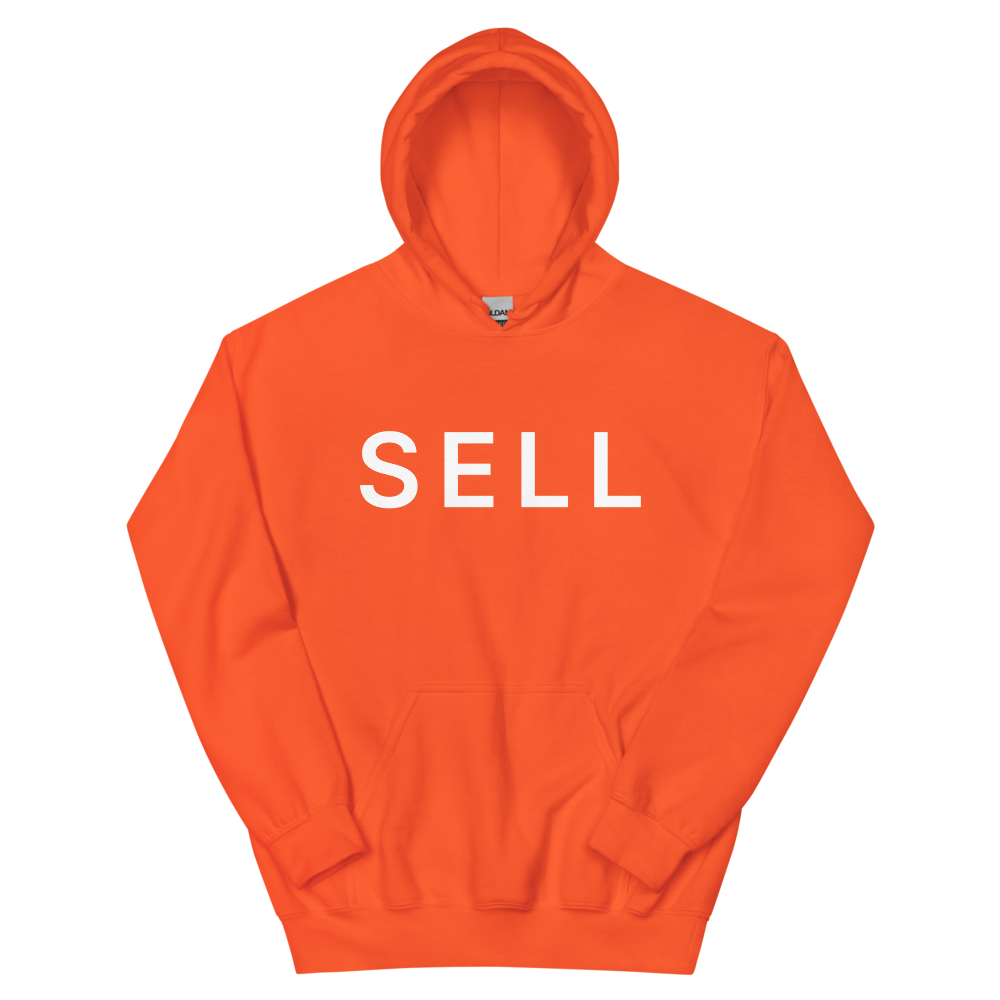
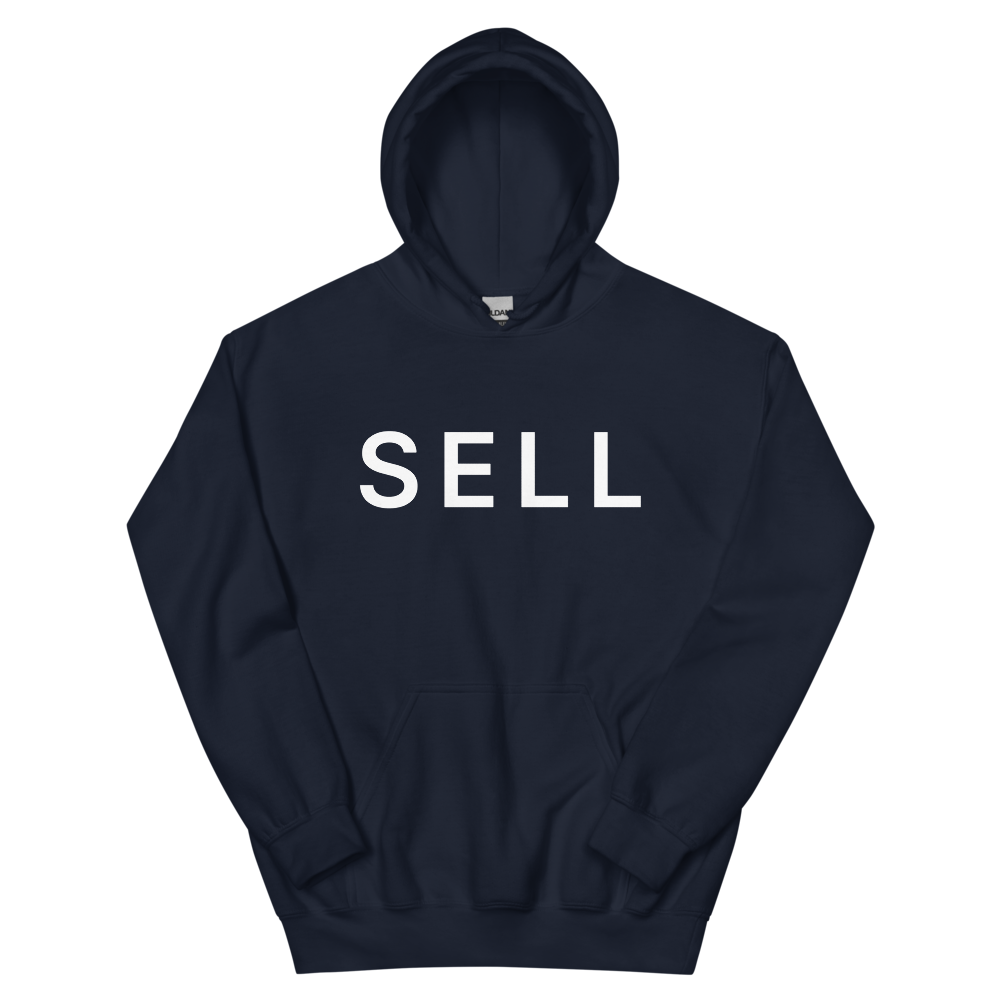
Detroit in navy

diff --git a/lib/teams.ts b/lib/teams.ts
@@ -71,7 +71,7 @@ const ROWS: Row[] = [
   // AL Central
   ["chicago-black", "al-central", "Chicago", "White Sox", "CHICAGO", "Black", "Black"],
   ["cleveland", "al-central", "Cleveland", "Guardians", "CLEVELAND", "Navy", "Navy"],
-  ["detroit", "al-central", "Detroit", "Tigers", "DETROIT", "Orange", "Orange"],
+  ["detroit", "al-central", "Detroit", "Tigers", "DETROIT", "Navy", "Navy"],
   ["kansas-city", "al-central", "Kansas City", "Royals", "KANSAS CITY", "True Royal", "Royal"],
   ["minnesota", "al-central", "Minnesota", "Twins", "MINNESOTA", "Navy", "Navy"],
   // AL West

diff --git a/lib/art.ts b/lib/art.ts
@@ -1,4 +1,4 @@
 // Bump when the shirt artwork or photos change: Printful caches print files by
 // URL and next/image caches optimized photos by URL, so a new number makes
 // both fetch fresh copies.
-export const ART_VERSION = 10;
+export const ART_VERSION = 11;
